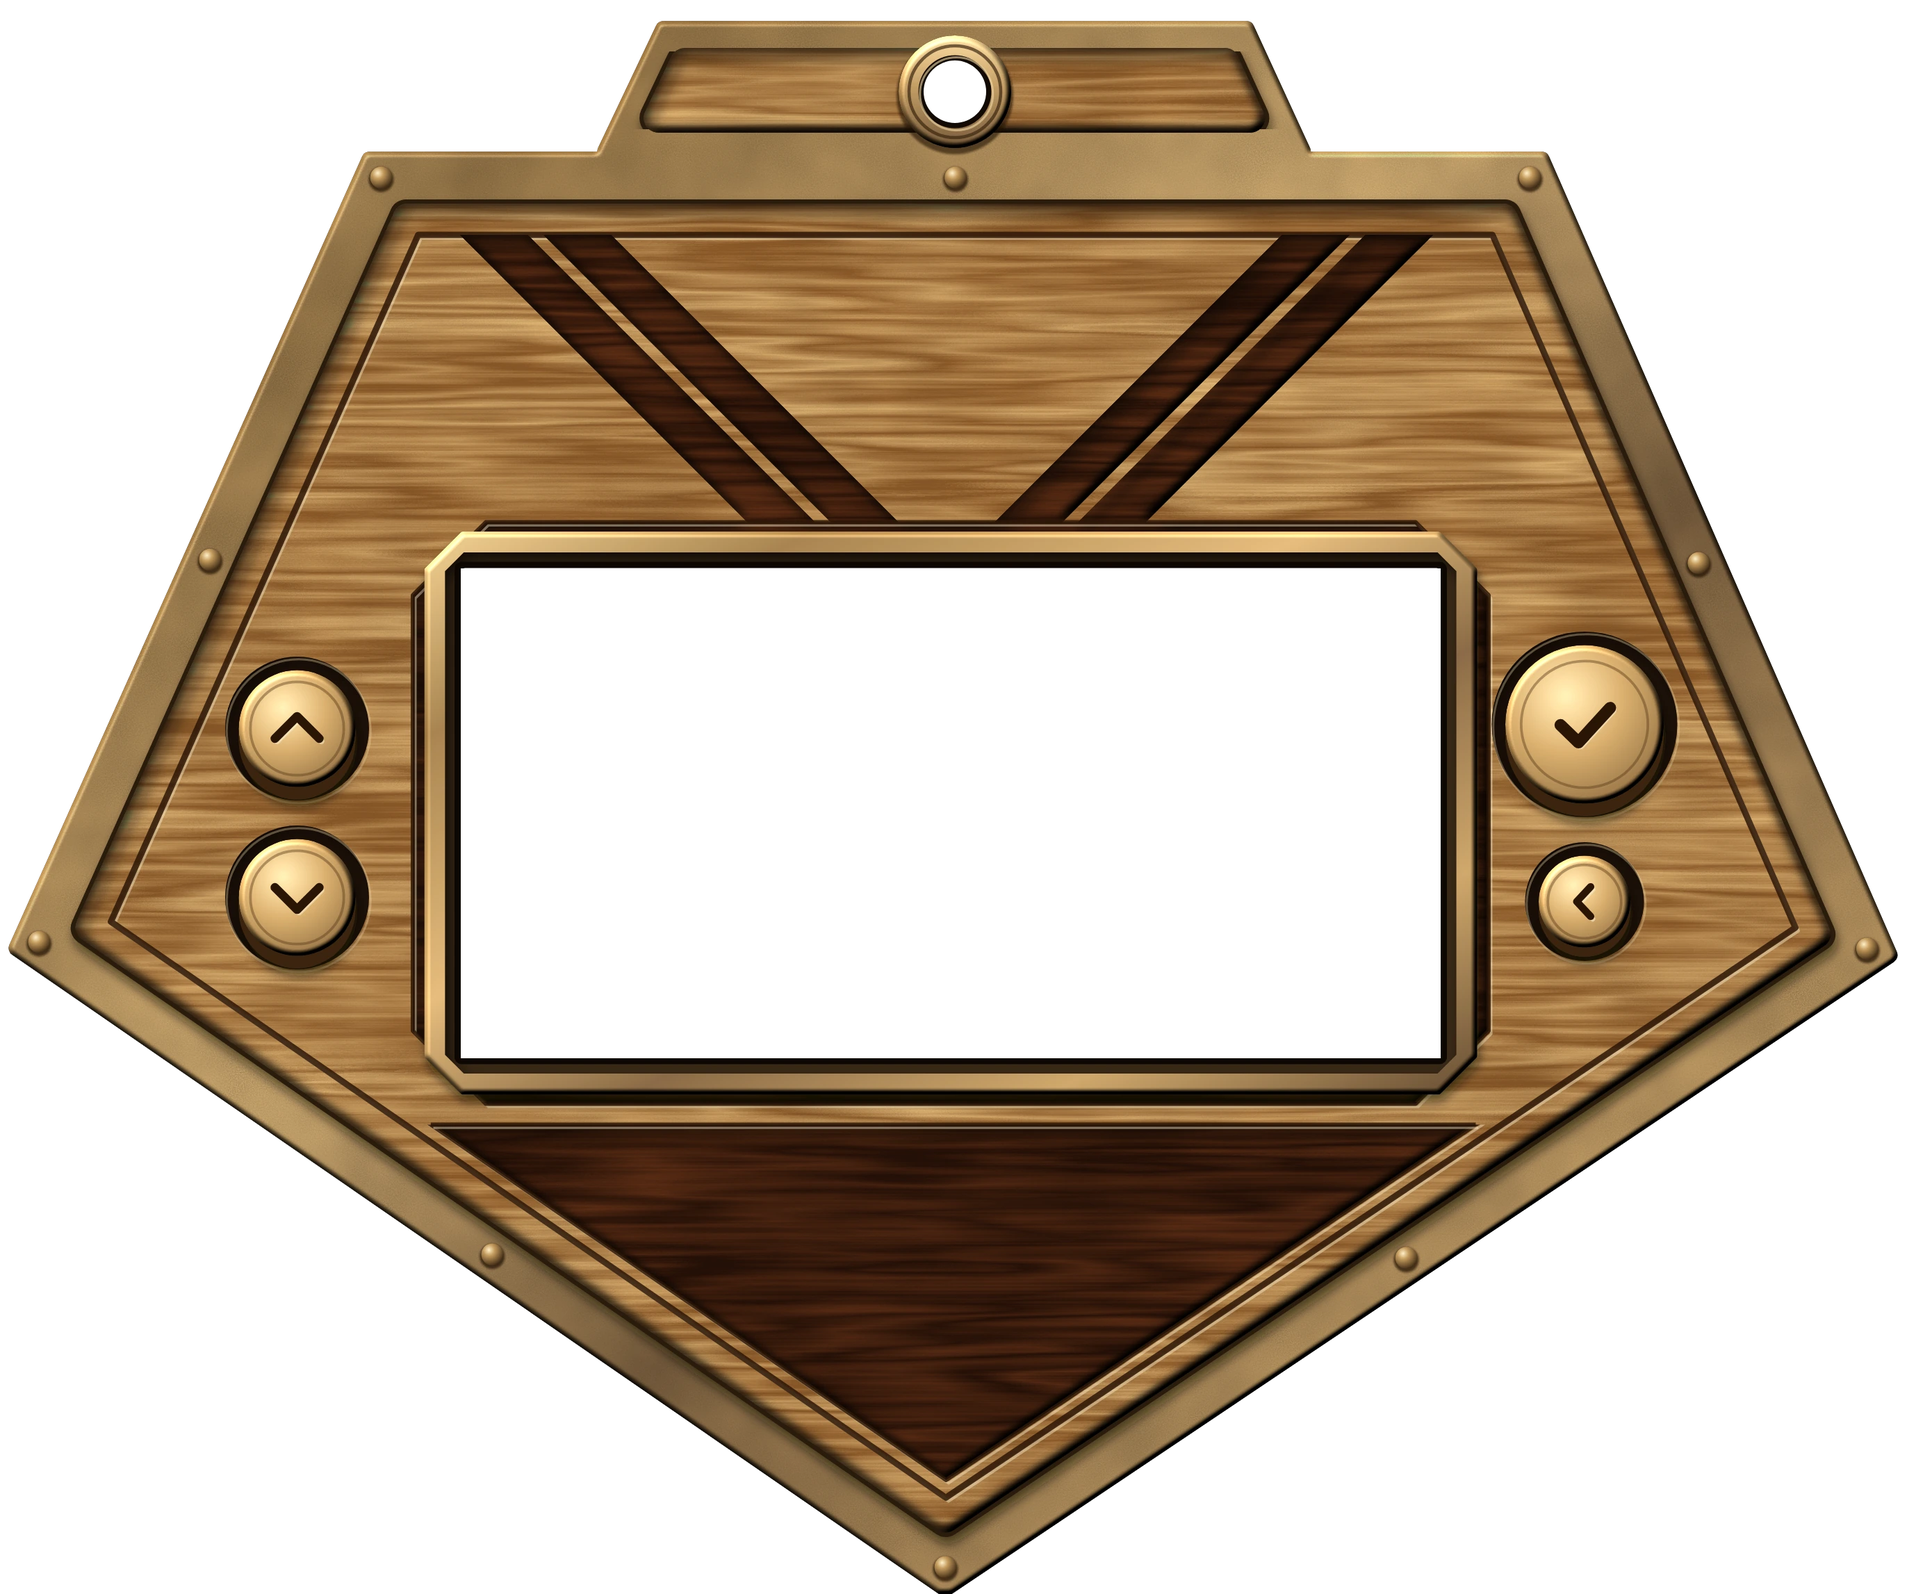
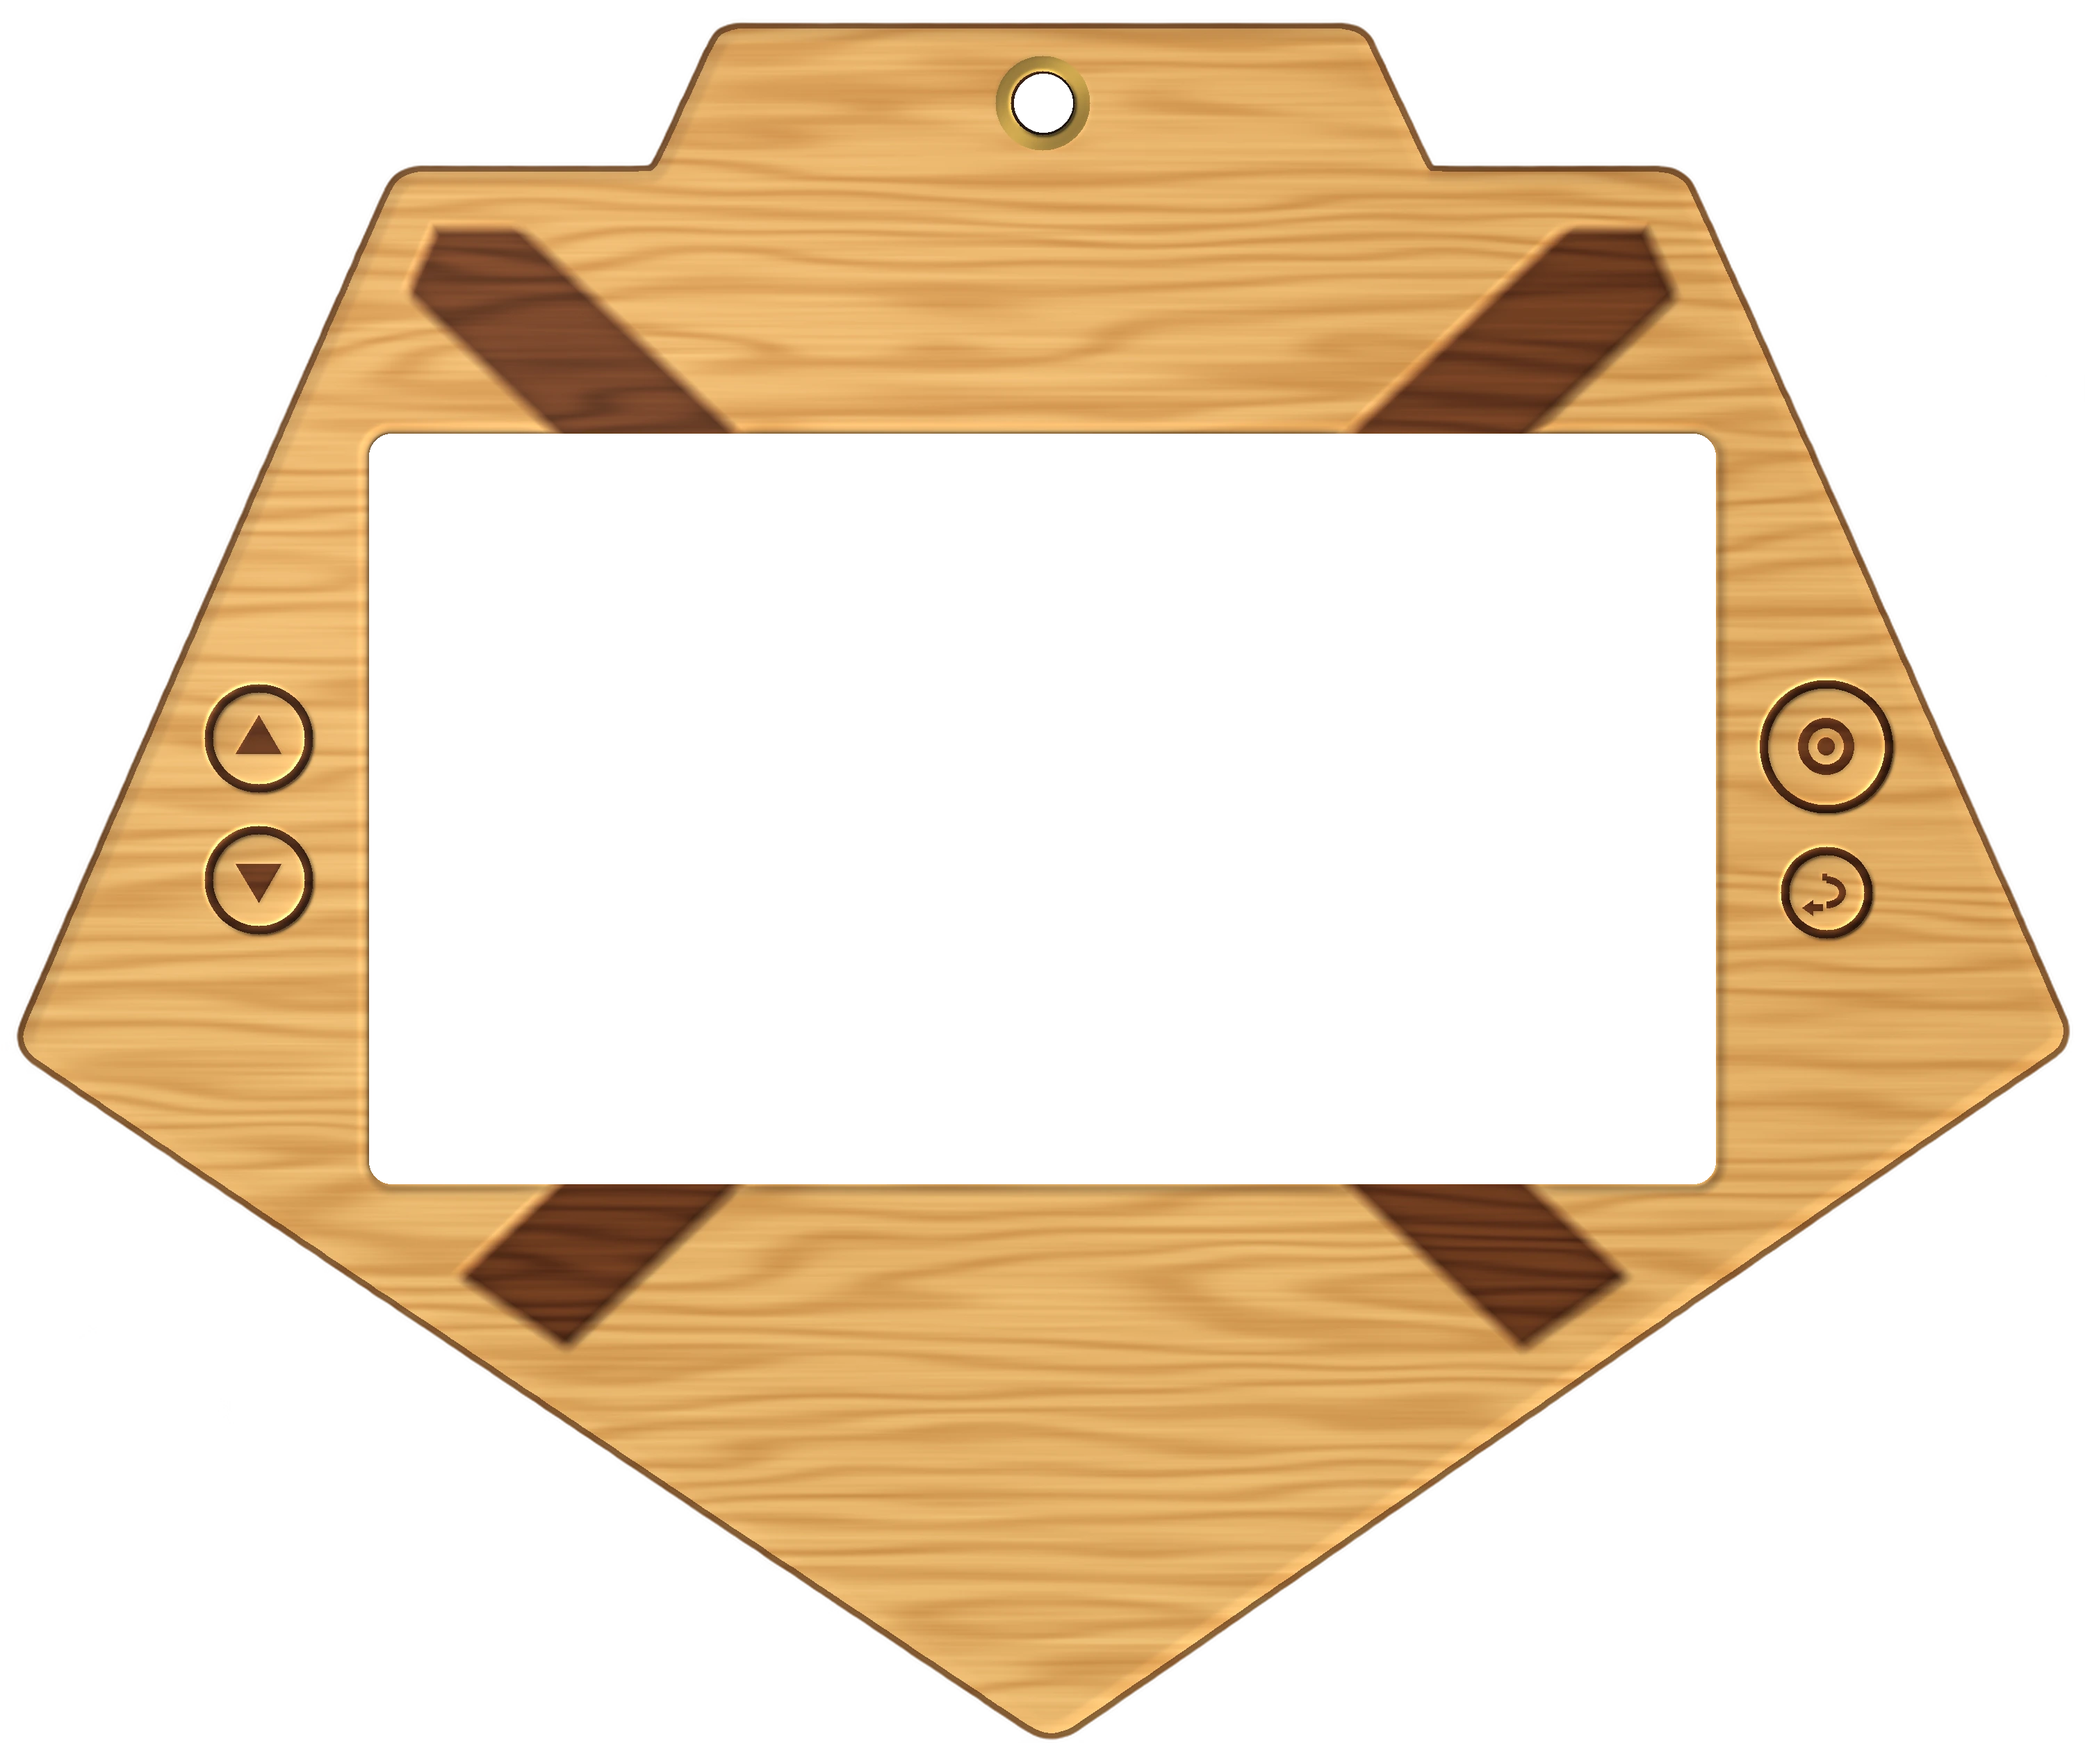
art: 사신대행증 새 그림(frame-v2) 적용 — 데이터 v1→v2, 고리 구멍 투명 처리
Claude-Session: https://claude.ai/code/session_014ppPcRMVwQMWc2oi8rDP96

diff --git a/tests/c71.test.ts b/tests/c71.test.ts
@@ -10,6 +10,13 @@ import { PATCH_LABEL, STAGE_LABEL } from '../src/version';
 
 const src = (p: string) => readFileSync(new URL(`../${p}`, import.meta.url), 'utf8');
 const badge = getCosmetic('device-badge')!;
+// 사신대행증은 C.84 에서 frame-v2 새 그림으로 바뀜 — 옛 frame-v1 그림(2744×2294)의 실제 좌표를 시험용으로 고정한다
+const OLD_V1 = {
+  ...badge.device!, frame: undefined, hole: undefined,
+  screen: { x: 24.16, y: 35.66, w: 51.38, h: 30.73 },
+  buttons: { up: { x: 11.81, y: 41.15, w: 7.58, h: 9.07 }, down: { x: 11.81, y: 51.79, w: 7.58, h: 9.07 }, ok: { x: 78.21, y: 39.58, w: 9.77, h: 11.68 }, back: { x: 79.96, y: 52.83, w: 6.27, h: 7.5 } },
+  ring: { x: 50.04, y: 5.71 },
+} as NonNullable<typeof badge.device>;
 const NAT = { w: 2744, h: 2294 };
 const scaleOf = (stage: string): number => Number(/scale\(([\d.]+)\)/.exec(stage)![1]);
 
@@ -32,18 +39,18 @@ describe('2. 화면비: 게임 화면 844×390 그대로, 규칙(frame-v1 구멍
     expect(py).toContain("px 더 큼: {fix} {lo}~{hi - 1} 가 투명 → 불투명(테두리)이어야 함");
   });
   it('그림 파일은 그대로(사신대행증 = 옛 2:1 구멍), 데이터는 그림의 실제 구멍', () => {
-    const s = badge.device!.screen;
+    const s = OLD_V1.screen;
     expect(Math.abs((s.y / 100) * NAT.h - 818)).toBeLessThan(2.5);
     expect(Math.abs((s.h / 100) * NAT.h - 705)).toBeLessThan(2.5);
   });
   it('LCD = 844×390 고정, 구멍 가로에 꽉. 규칙과 다른 그림이면 위아래 남는 띠(베젤 색), 규칙대로면 꽉 찬다', () => {
     expect(SKIN_LCD).toEqual({ w: 844, h: 390 });
-    const old = deviceSkin(NAT, badge.device!);
+    const old = deviceSkin(NAT, OLD_V1);
     expect(Math.abs(old.hole.x)).toBeLessThan(1);
     expect(Math.abs(old.hole.w - 844)).toBeLessThan(1);
     expect(old.hole.y).toBeLessThan(-10); // 위아래 약 16px 씩
     expect(Math.abs(old.hole.y + old.hole.h / 2 - 195)).toBeLessThan(1);
-    const rule = { ...badge.device!, screen: { x: (663 / 2744) * 100, y: (845 / 2294) * 100, w: (1410 / 2744) * 100, h: (652 / 2294) * 100 } };
+    const rule = { ...OLD_V1, screen: { x: (663 / 2744) * 100, y: (845 / 2294) * 100, w: (1410 / 2744) * 100, h: (652 / 2294) * 100 } };
     const fit = deviceSkin(NAT, rule);
     expect(Math.abs(fit.hole.y)).toBeLessThan(1);
     expect(Math.abs(fit.hole.h - 390)).toBeLessThan(1);
@@ -52,9 +59,9 @@ describe('2. 화면비: 게임 화면 844×390 그대로, 규칙(frame-v1 구멍
 });
 
 describe('4. 평소 화면도 입은 기기 디자인 (31장 4)', () => {
-  const skin = deviceSkin(NAT, badge.device!);
+  const skin = deviceSkin(NAT, OLD_V1);
   it('틀 상자 = 화면 구멍 + 버튼 4개가 다 들어간다', () => {
-    const p = deviceArtPlacement({ x: 0, y: 0, ...SKIN_LCD }, NAT, badge.device!);
+    const p = deviceArtPlacement({ x: 0, y: 0, ...SKIN_LCD }, NAT, OLD_V1);
     for (const r of [p.hole, ...DEVICE_BUTTONS.map((b) => p.buttons[b])]) {
       expect(r.x).toBeGreaterThanOrEqual(skin.crop.x);
       expect(r.y).toBeGreaterThanOrEqual(skin.crop.y);

diff --git a/tests/c65.test.ts b/tests/c65.test.ts
@@ -34,21 +34,12 @@ describe('사신대행증 데이터 (30장 1번)', () => {
     expect(sourceNote(c)).toBe('기본 제공');
     expect(FREE_COSMETICS.map((x) => x.id)).toContain('device-badge');
   });
-  it('좌표 = frame-v1 고정값(2744×2294 px) + 고리 (1373, 131)', () => {
-    const W = 2744, H = 2294;
-    const px = (r: { x: number; y: number; w: number; h: number }) => ({ x: (r.x / 100) * W, y: (r.y / 100) * H, w: (r.w / 100) * W, h: (r.h / 100) * H });
-    const near = (a: number, b: number) => expect(Math.abs(a - b)).toBeLessThan(2.5);
+  it('데이터 = frame-v2 (그림 3000×2508, 구멍 왼쪽 위 (531, 624), 고리 (1501, 148))', () => {
     const d = c.device!;
-    const sc = px(d.screen);
-    [sc.x, sc.y, sc.w, sc.h].forEach((v, i) => near(v, [663, 818, 1410, 705][i]!)); // 그림의 실제 구멍 (새 규칙 v5.48 과 다름 — c71 테스트)
-    const want: Record<string, [number, number, number]> = { up: [428, 1048, 208], down: [428, 1292, 208], ok: [2280, 1042, 268], back: [2280, 1298, 172] };
-    for (const b of DEVICE_BUTTONS) {
-      const r = px(d.buttons[b]);
-      const [cx, cy, dia] = want[b]!;
-      near(r.x + r.w / 2, cx); near(r.y + r.h / 2, cy); near(r.w, dia); near(r.h, dia);
-    }
-    near((d.ring.x / 100) * W, 1373);
-    near((d.ring.y / 100) * H, 131);
+    expect(d.frame).toBe('v2');
+    expect(d.hole).toEqual([531, 624]);
+    expect(Math.abs((d.ring.x / 100) * 3000 - 1501)).toBeLessThan(2.5);
+    expect(Math.abs((d.ring.y / 100) * 2508 - 148)).toBeLessThan(2.5);
   });
   it('그림 파일: 앞면·뒷면이 public/art 에 있고 옆면은 없다(겹 두께)', () => {
     for (const f of ART) expect(existsSync(new URL(`../public/art/${f}`, import.meta.url))).toBe(true);

diff --git a/tests/c78.test.ts b/tests/c78.test.ts
@@ -70,8 +70,8 @@ describe('2. 자유: 그림 크기·모양·구멍 위치는 그림마다', () =
       expect(shopVisible(c, [], [`device-${c.look}-front.png`])).toBe(false);
       expect(has(`public/art/device-${c.look}-back.png`)).toBe(true);
     }
-    expect(getCosmetic('device-badge')!.device!.frame).toBeUndefined(); // 사신대행증 = v1 그대로
-    expect(COSMETIC_ITEMS.filter((c) => c.device?.frame === 'v2')).toHaveLength(2);
+    expect(getCosmetic('device-badge')!.device!.frame).toBe('v2'); // 사신대행증 = 새 그림(C.84)부터 v2
+    expect(COSMETIC_ITEMS.filter((c) => c.device?.frame === 'v2')).toHaveLength(3);
   });
   it('데이터 검증: v2 는 hole 이 없거나 음수면 오류', async () => {
     const mod = await import('../src/data/shop');

diff --git a/docs/art-guide.md b/docs/art-guide.md
@@ -224,7 +224,7 @@ npm run art:list
 - **items.json**: `"frame": "v2"`, `"hole": [x, y]`(구멍 왼쪽 위, 그림 픽셀), `"ring": {x, y}`(그림 대비 %). 화면·버튼 자리는 규격이라 적지 않는다. 예: `device-vtest`(직사각형 2688×1326), `device-vround`(동그라미 3600×3600, 구멍이 위쪽) — 보상 전용 시험 기기.
 - **검사**: `python3 docs/design/device-preset/frame-v2/check-device.py 앞면.png 뒷면.png --hole X,Y --ring X,Y`(그림 픽셀, `--hole` 생략 시 구멍을 찾음). 어디가 몇 px 틀렸는지 말하고 `items.json` 줄을 출력. `--frame v1` 로 옛 규격도 검사.
 - 예시 모양: `example-round/heart/wide.png`.
-- **사신대행증**은 v1 그림이라 새 그림이 올 때까지 지금 방식 그대로(v2 검사 결과 = dev-log C.78).
+- **사신대행증**은 2026-10-20 새 그림(3000×2508, 앞면 화면 구멍 (531, 624), 고리 구멍 (1501, 148))으로 바뀌어 v2 입니다. 고리 둘레 어두운 원판은 투명으로 뚫어 넣었습니다(앞면 1개·뒷면 좌우 반전 자리).
 - 외부 생성기 프롬프트: `docs/design/claude-design-prompts.md` ①-c.
 
 ### 10-2. 키링 (1장)

diff --git a/docs/dev-log.md b/docs/dev-log.md
@@ -432,3 +432,4 @@ C.0 ~ C.59 는 `docs/dev-log-archive.md` 로 옮겼다(2026-10-20, 사용량 절
 ## 그림 반영
 - 2026-10-20: 홈 물건 7종(prop-altar·book·chest·door·dummy·shop·window, 투명 여백 잘라 정사각 무손실 WebP)과 방 배경 scene-room(사신)·scene-cave(호로, 1774×887 WebP q92) 반영. 캡처 `docs/captures/art-apply/`.
 - 2026-10-20: 홈 방 배경 교체(scene-cave 호로·scene-room 사신, 도트풍 새 그림, 66·41KB)와 책장 그림(prop-book, 320×320 WebP 15KB). 캡처 `docs/captures/art-apply/*-v2.png`.
+- 2026-10-20: 사신대행증 새 그림(앞 3000×2508·뒤 3000×2508, 앞면 246KB·뒷면 1.2MB WebP q92) — frame-v2 검사 전부 통과(구멍 (531, 624) 1938×1080·버튼 4개·구멍 둘레), 고리 둘레 어두운 원판을 투명으로 뚫음. items.json device-badge 를 v1 → v2(hole [531,624], ring 50.03/5.9)로, c65·c71·c78 테스트를 새 데이터에 맞춤. 캡처 `docs/captures/c84/`.
